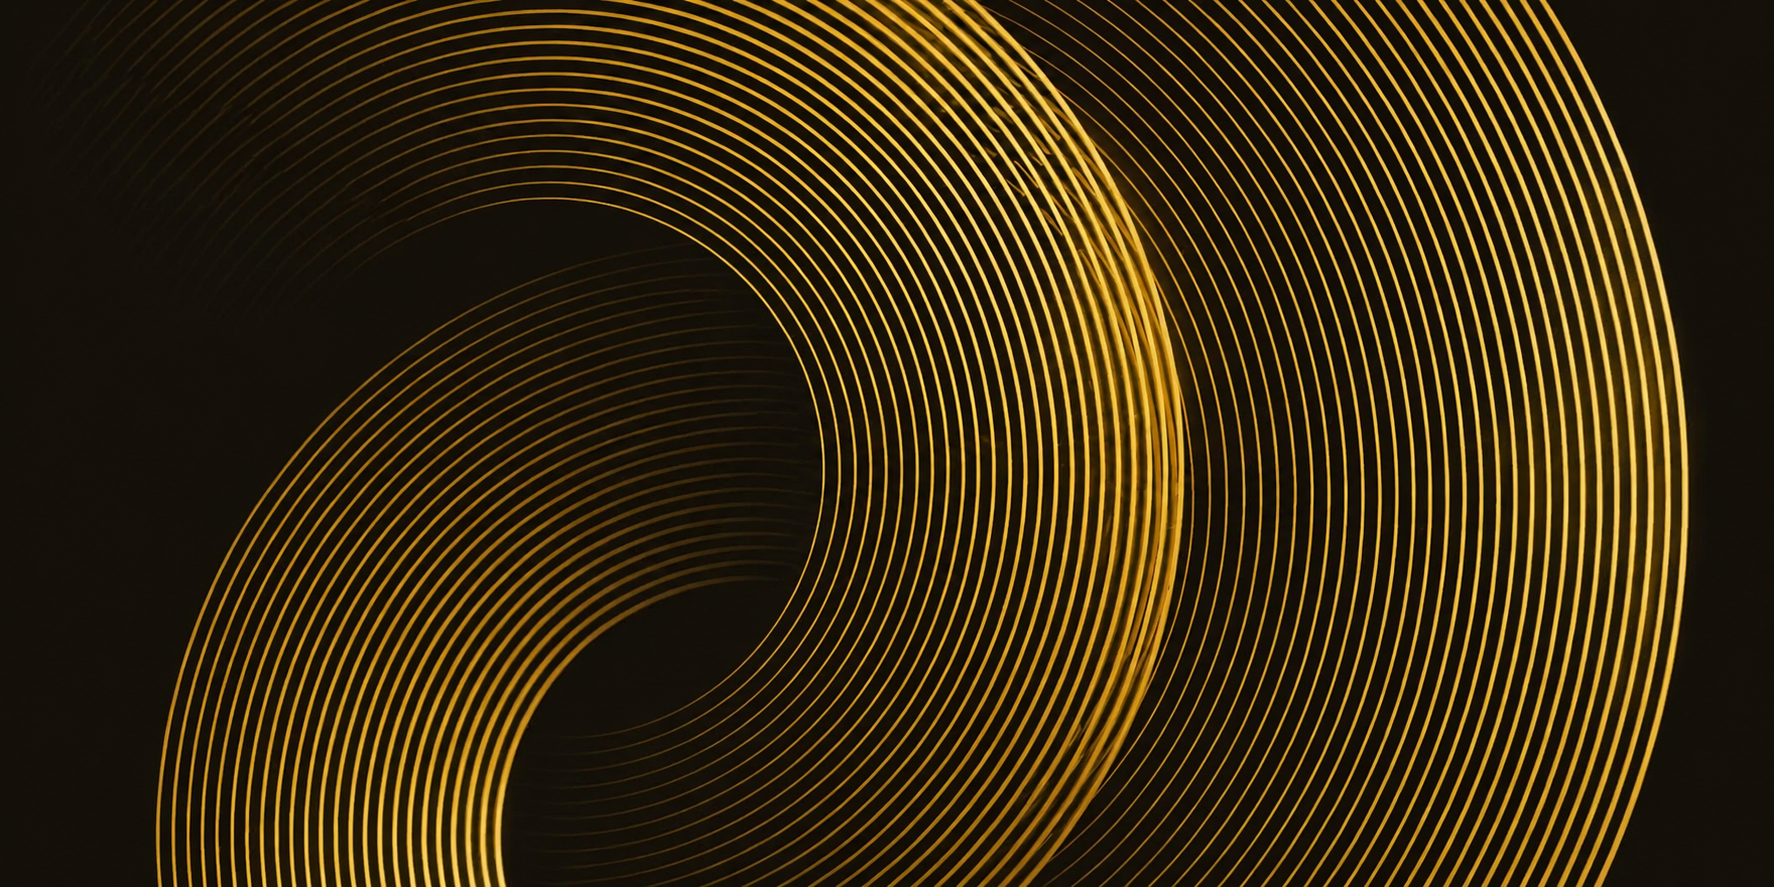
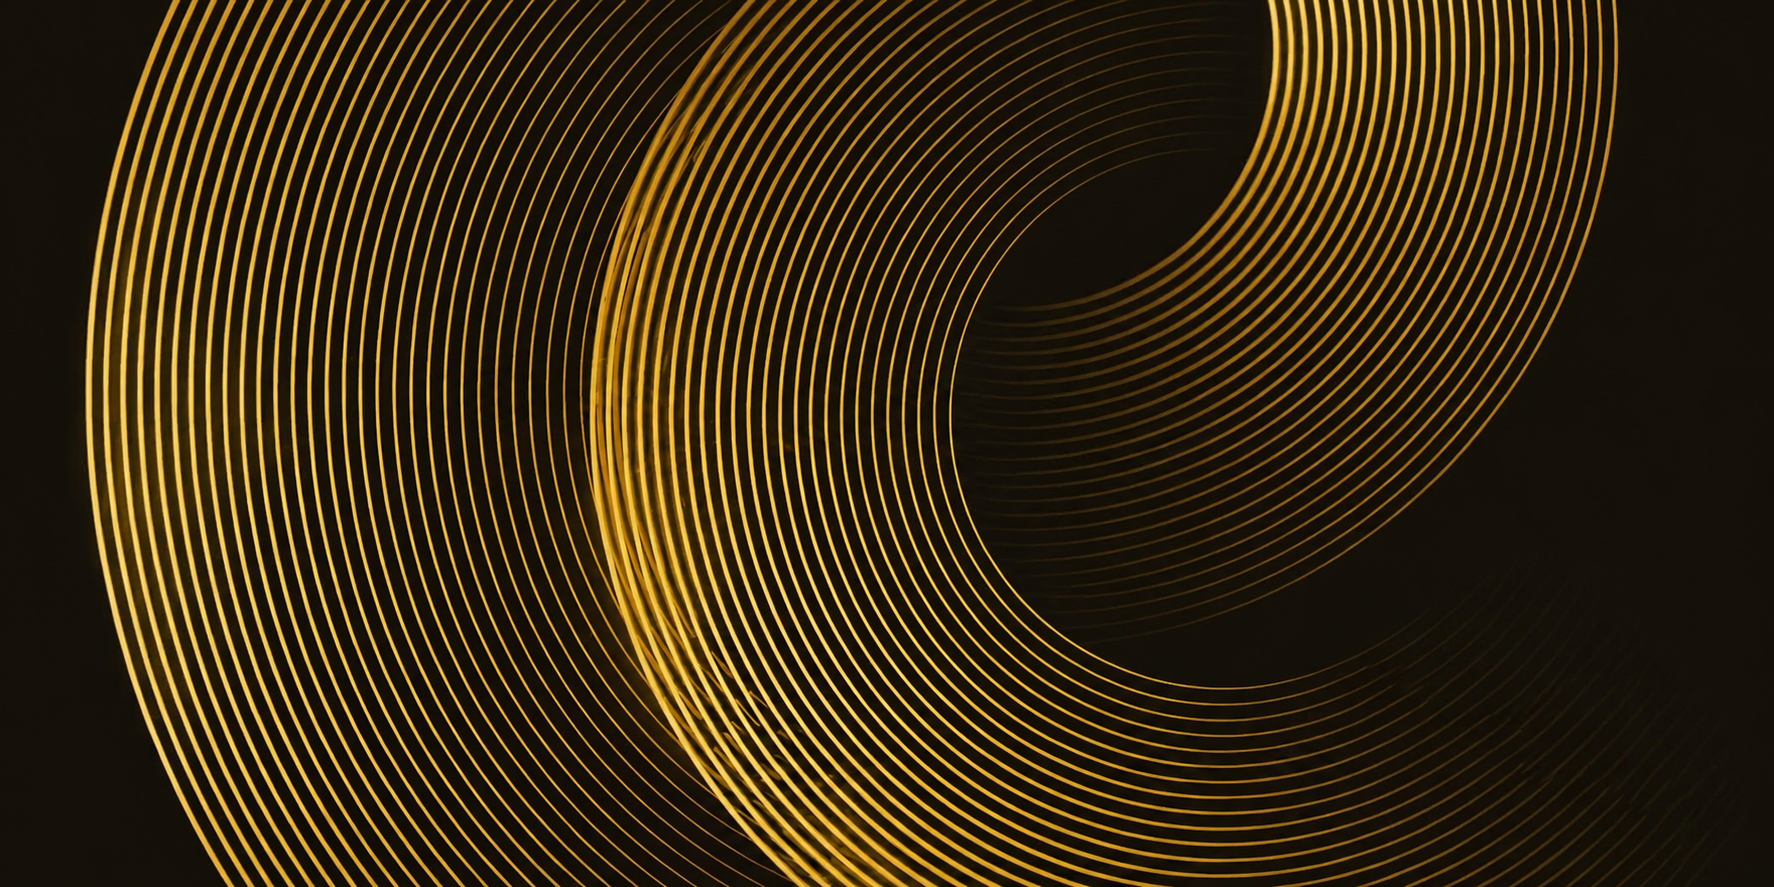
update message

diff --git a/about.html b/about.html
@@ -304,6 +304,32 @@ footer ul li{margin-bottom:10px;color:#A79E98;}
     </p>
   </div>
 
+  <svg class="hero waves"
+    xmlns="http://www.w3.org/2000/svg"
+    viewBox="0 0 1440 320">
+    <path
+      fill="#C9A24B"
+      fill-opacity="0.1"
+      d="M0,192L120,197.3L240,208L360,197.3L480,224L600,256L720,256L840,224L960,192L1080,224L1200,256L1320,256L1440,224L1440,320L1320,320L1200,320L1080,320L960,320L840,320L720,320L600,320L480,320L360,320L240,320L120,32₀L₀,3₂₀Z">
+    </path>
+    <defs> == $0
+      <path id="wave-path" d="M-160 44c30 0 58-18 88-18s58 18 88 18 58-18 88-18 58 18 88 18v44h-352z">
+      </path> 
+    </defs>
+    <g class="wave1">
+      <use href="#wave-path" x="50" y="0" fill="rgba(201,162,75,0.3)">
+      </use>
+    </g>
+    <g class="wave2">
+      <use href="#wave-path" x="50" y="3" fill="rgba(201,162,75,0.5)">
+      </use>
+    </g>
+    <g class="wave3">
+      <use href="#wave-path" x="50" y="6" fill="rgba(201,162,75,0.7)">
+      </use>
+    </g>
+  </svg>
+
   <div class="story-card">
     <p>
       Shiv Shakti Oil & Lubricants (SSOL) was built on a simple idea: nothing should go to waste
@@ -348,6 +374,7 @@ footer ul li{margin-bottom:10px;color:#A79E98;}
   <div class="timeline-section">
     <div class="timeline-wrap">
       <div class="timeline-line"></div>
+      <img src="timeline-bg.png" alt="Timeline Background" style="position:absolute;top:0;left:0;width:100%;height:100%;opacity:0.05;pointer-events:none;">
       <div class="timeline-item">
         <div class="timeline-dot"></div>
         <div class="timeline-year">2003</div>